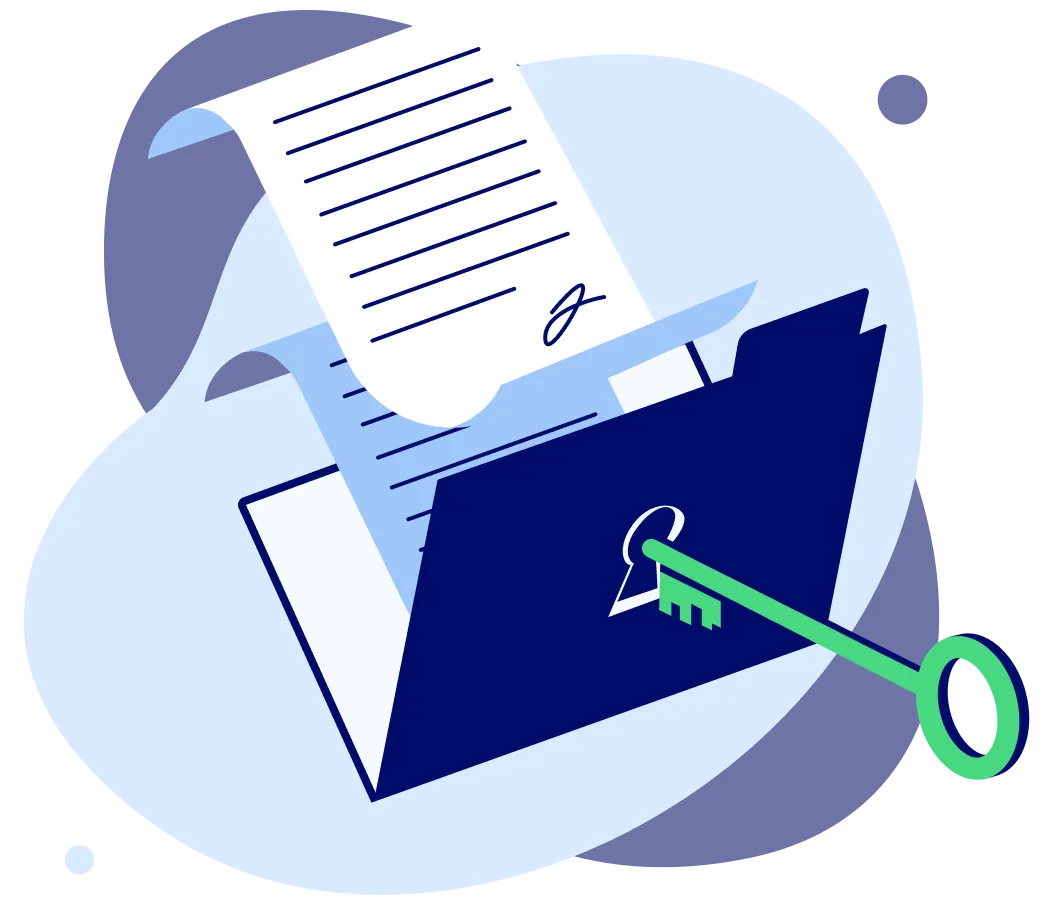
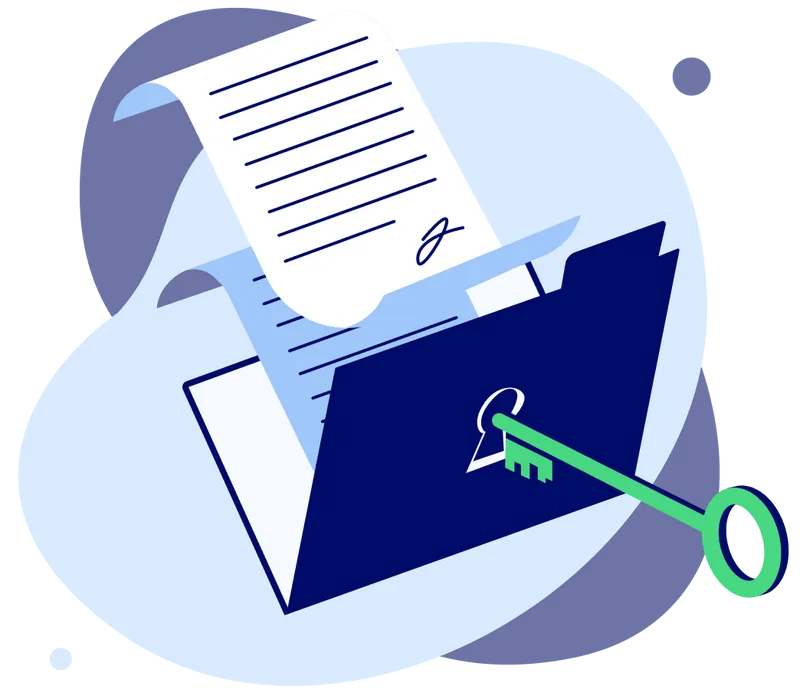
imagesl

Changed region(s): [[0.5312, 0.3348, 0.5625, 0.3652]]

diff --git a/index.html b/index.html
@@ -2830,7 +2830,7 @@
           </div>
           <div class="banner-new">
             <img
-              src="https://cdn.prod.website-files.com/5f32671df6c27b4b45276696/6517ff72a320198b84608591_banner-bg.webp"
+              src="https://my-static-assets.pages.dev/img/lastwalipngs/footer1.png"
               loading="lazy"
               width="522"
               sizes="(max-width: 767px) 94vw, 522px"
@@ -2838,7 +2838,7 @@
               srcset="
                 https://cdn.prod.website-files.com/5f32671df6c27b4b45276696/6517ff72a320198b84608591_banner-bg-p-500.webp  500w,
                 https://cdn.prod.website-files.com/5f32671df6c27b4b45276696/6517ff72a320198b84608591_banner-bg-p-800.webp  800w,
-                https://cdn.prod.website-files.com/5f32671df6c27b4b45276696/6517ff72a320198b84608591_banner-bg.webp       1044w
+                https://my-static-assets.pages.dev/img/lastwalipngs/footer1.png                                           1044w
               "
               class="banner-new__img"
             />
